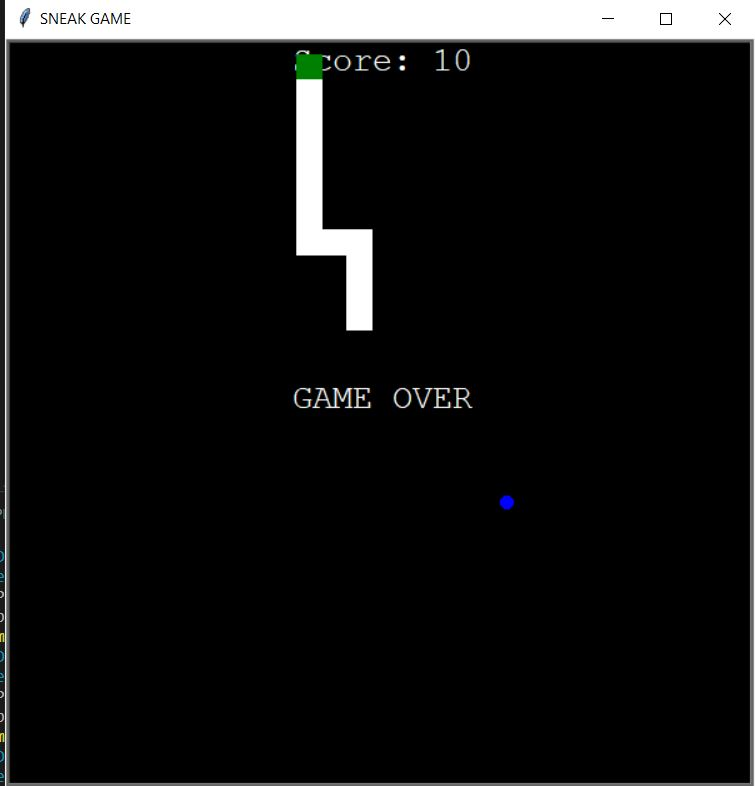
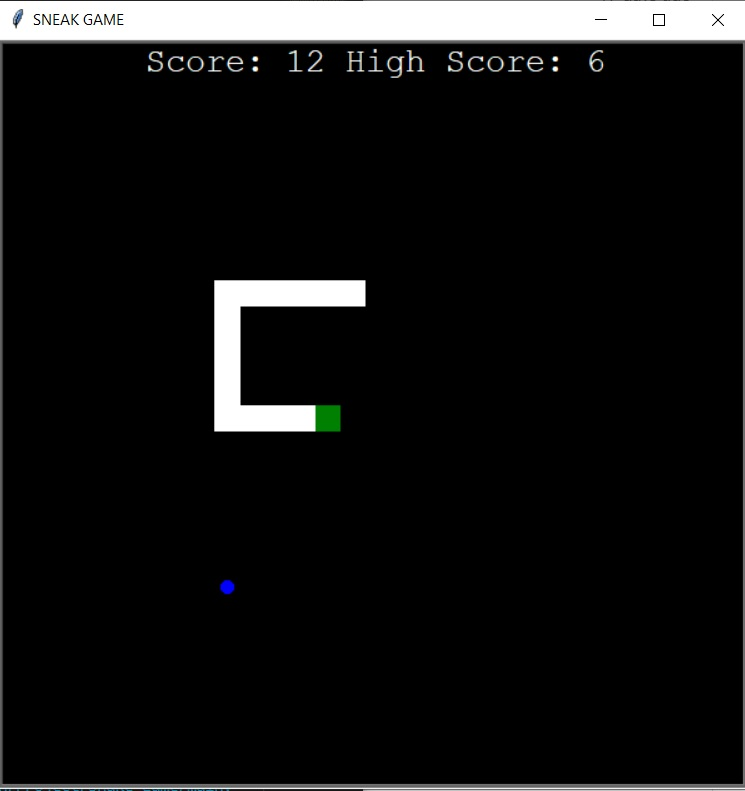
Snake high score updated

diff --git a/Snake_game/scoreboard.py b/Snake_game/scoreboard.py
@@ -1,4 +1,6 @@
 # class for managing the score
+import json
+from select import select
 from turtle import Turtle
 from screen import ScreenSettings
 
@@ -15,10 +17,12 @@ class ScoreBoard(Turtle):
     """
     class to manage the score on the screen
     """
-    def __init__(self, screen_settings: ScreenSettings) -> None:
+    def __init__(self, screen_settings: ScreenSettings, file_name: str) -> None:
         super().__init__()
         self.score = 0
-        self.text = lambda score: f"Score: {score}"
+        self.file_name = file_name
+        self.high_score = self.read_high_score(self.file_name)
+        self.text = lambda score, high_score: f"Score: {score} High Score: {high_score}"
         self.penup()
         self.color(ScoreBoardSettings.COLOR)
         self.goto(0,screen_settings.SCREEN_HEIGHT/2-30)
@@ -26,27 +30,72 @@ class ScoreBoard(Turtle):
         self.draw_score()
 
 
+    def read_high_score(self, file_name:str) -> int : 
+        """
+        reads the highscore value from a json file data and returns its value
+        if the file dosent exists , it will return 0
+        """
+        data = 0
+        try:
+            with open(file_name,'r') as f:
+                data = json.load(f)
+        except FileNotFoundError:
+            print(f"{file_name} dosent exists or wrong directory!")
+        except Exception as e:
+            print(type(e))
+            print(f"{e} An exception was caught")
+        else:
+            return data['high_score']
+
+        return 0
+
+    def write_high_score(self) -> None:
+        """
+        write the high score to a file
+        """
+        try:
+            data = {'high_score':self.high_score}
+            json_data = json.dumps(data)
+            with open(self.file_name,'w') as f:
+                f.write(json_data)
+        except FileNotFoundError:
+            print(f"{self.file_name} error writing")
+        except Exception as e:
+            print(type(e))
+            print(f"{e} An exception occured during writing {data} to {self.file_name}")
+        else:
+            print("High score was successfully written into a file.")
+
+
     def add_score(self) -> None:
         """
         increassing the score by 1, and redrawing the score
         """
-        self.clear()
         self.score += 1
         self.draw_score()
-
 
     def draw_score(self) -> None:
         """
         draw the score on the screen
         """
-        self.write(self.text(self.score),align=ScoreBoardSettings.ALIGMENT,
+        self.clear()
+        self.write(self.text(self.score,self.high_score), \
+            align=ScoreBoardSettings.ALIGMENT,
         font=ScoreBoardSettings.FONT)
 
-    
-    def game_over(self) -> None :
+    def reset_score(self) :
         """
-        Info on the screen - Game Over
+        Updating the valu of high score with our current score
         """
-        # write teh message in the center
-        self.goto(0,0)
-        self.write("GAME OVER",align=ScoreBoardSettings.ALIGMENT,font=ScoreBoardSettings.FONT)
+        if self.score > self.high_score:
+            self.high_score = self.score
+            self.write_high_score()
+        self.score = 0
+        self.draw_score()
+    # def game_over(self) -> None :
+    #     """
+    #     Info on the screen - Game Over
+    #     """
+    #     # write teh message in the center
+    #     self.goto(0,0)
+    #     self.write("GAME OVER",align=ScoreBoardSettings.ALIGMENT,font=ScoreBoardSettings.FONT)

diff --git a/Snake_game/main.py b/Snake_game/main.py
@@ -5,6 +5,7 @@ from snake import Snake
 from turtle import Screen
 import time
 
+FILE_NAME = "data.json"
 
 # creating screen view
 screen = Screen()
@@ -20,7 +21,7 @@ new_snake = Snake()
 # creating food class
 new_food = Food(ScreenSettings)
 # creating Scoreboard object
-new_scoreboard = ScoreBoard(ScreenSettings)
+new_scoreboard = ScoreBoard(ScreenSettings,FILE_NAME)
 
 # creating the screen listener - watching for any events:
 screen.listen()
@@ -52,18 +53,18 @@ while game_is_on:
         new_snake.head.xcor() <  (5 - ScreenSettings.SCREEN_WIDTH/2) or \
             (ScreenSettings.SCREEN_HEIGHT/2 - 5) < new_snake.head.ycor() or \
                 new_snake.head.ycor() <  (15 - ScreenSettings.SCREEN_HEIGHT/2):
-        # Game OVER
-        new_scoreboard.game_over()
-        game_is_on = False
+        #reseting the score board
+        new_scoreboard.reset_score()
+        new_snake.reset_snake()
+
 
     # detect colision with tail
     # baypassing the checking of the head
     for segment in new_snake.snake_segements[1:]:
         if new_snake.head.distance(segment) < 10:
-            # Game OVER
-            # if head collides with any segment in the tail:
-            new_scoreboard.game_over()
-            game_is_on = False
+            #reseting the score board
+            new_scoreboard.reset_score()
+            new_snake.reset_snake()
     
 
 # wait for the scree to disapear fro a click

diff --git a/Snake_game/snake.py b/Snake_game/snake.py
@@ -56,6 +56,15 @@ class Snake:
         """
         self.create_segment(self.snake_segements,self.snake_segements[-1].position())
 
+    def reset_snake(self) -> None:
+        """
+        Reseting the snake to its initial position
+        """
+        self.head.reset()
+        for segment in self.snake_segements:
+            segment.reset()
+
+        self.__init__()
 
     def move(self) -> None :
         """

diff --git a/README.md b/README.md
@@ -62,7 +62,7 @@ The questions / data is read from JSON files (they can be generated using the AP
 # Snake_game
 Snake game has, a moving snake, which you control using your arrow keyboards (UP, RIGHT, DOWN, LEFT). The aim is to collect food objects that appear randomly on the screen. It will grow in length as it eats more food. You have to make sure that you don't end up getting tangled or hitting the wall, which would result in Game Over. 
 The goal is to eat as much food as you can while staying alive.
-You'll be able to see your score on the scoreboard located on the top of your scree.
+YYou'll be able to see your score on the scoreboard located on the top of your screen, as well as the high score that will be stored in a file and loaded at the beginning of each game.
 
 # Turtle_crossing_game
 In the Turtle crossing game, we have a bunch of cars spawning randomly on the right side of the screen and going across a super busy multilane highway. The player controls the turtle on the bottom side of the road with arrow keyboard 'Up', which can only go forwards. The aim is to cross the road without being hit by the cars driving on it.

diff --git a/Snake_game/README.md b/Snake_game/README.md
@@ -2,7 +2,7 @@
  
 Snake game has, a moving snake, which you control using your arrow keyboards (UP, RIGHT, DOWN, LEFT). The aim is to collect food objects that appear randomly on the screen. It will grow in length as it eats more food. You have to make sure that you don't end up getting tangled or hitting the wall, which would result in Game Over. 
 The goal is to eat as much food as you can while staying alive.
-You'll be able to see your score on the scoreboard located on the top of your scree.
+You'll be able to see your score on the scoreboard located on the top of your screen, as well as the high score that will be stored in a file and loaded at the beginning of each game.
 
 The game was developed using the library Turtle and python 3.10.05. According to the OOP methodology. 
 
